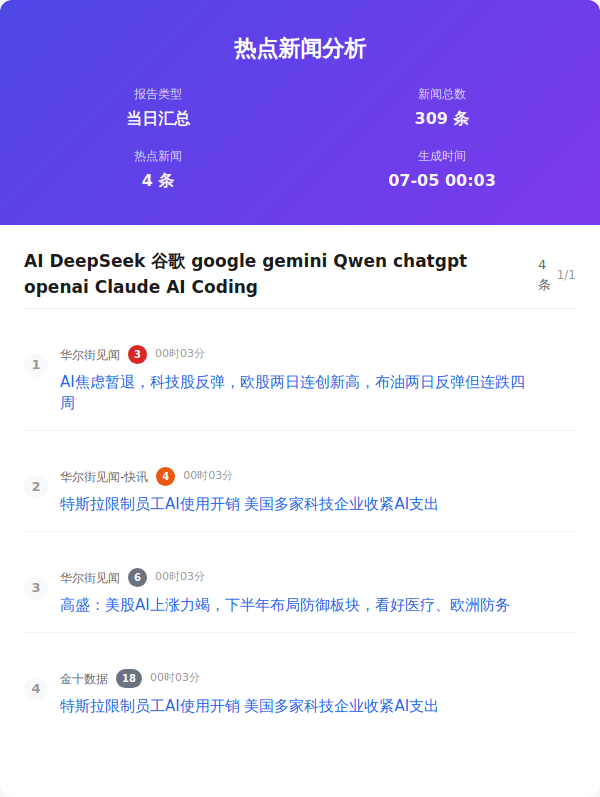
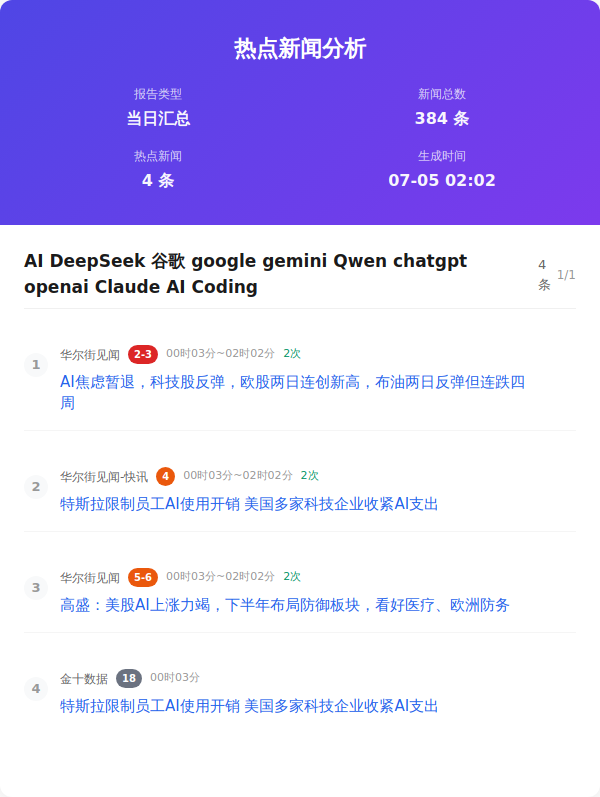
Auto update by GitHub Actions at Sun Jul  5 02:02:43 CST 2026

diff --git a/index.html b/index.html
@@ -357,7 +357,7 @@
                     </div>
                     <div class="info-item">
                         <span class="info-label">新闻总数</span>
-                        <span class="info-value">309 条</span>
+                        <span class="info-value">384 条</span>
                     </div>
                     <div class="info-item">
                         <span class="info-label">热点新闻</span>
@@ -365,7 +365,7 @@
                     </div>
                     <div class="info-item">
                         <span class="info-label">生成时间</span>
-                        <span class="info-value">07-05 00:03</span>
+                        <span class="info-value">07-05 02:02</span>
                     </div>
                 </div>
             </div>
@@ -383,7 +383,7 @@
                         <div class="news-number">1</div>
                         <div class="news-content">
                             <div class="news-header">
-                                <span class="source-name">华尔街见闻</span><span class="rank-num top">3</span><span class="time-info">00时03分</span>
+                                <span class="source-name">华尔街见闻</span><span class="rank-num top">2-3</span><span class="time-info">00时03分~02时02分</span><span class="count-info">2次</span>
                             </div>
                             <div class="news-title"><a href="https://wallstreetcn.com/articles/3776124" target="_blank" class="news-link">AI焦虑暂退，科技股反弹，欧股两日连创新高，布油两日反弹但连跌四周</a>
                             </div>
@@ -393,7 +393,7 @@
                         <div class="news-number">2</div>
                         <div class="news-content">
                             <div class="news-header">
-                                <span class="source-name">华尔街见闻-快讯</span><span class="rank-num high">4</span><span class="time-info">00时03分</span>
+                                <span class="source-name">华尔街见闻-快讯</span><span class="rank-num high">4</span><span class="time-info">00时03分~02时02分</span><span class="count-info">2次</span>
                             </div>
                             <div class="news-title"><a href="https://wallstreetcn.com/livenews/3128944" target="_blank" class="news-link">特斯拉限制员工AI使用开销 美国多家科技企业收紧AI支出</a>
                             </div>
@@ -403,7 +403,7 @@
                         <div class="news-number">3</div>
                         <div class="news-content">
                             <div class="news-header">
-                                <span class="source-name">华尔街见闻</span><span class="rank-num ">6</span><span class="time-info">00时03分</span>
+                                <span class="source-name">华尔街见闻</span><span class="rank-num high">5-6</span><span class="time-info">00时03分~02时02分</span><span class="count-info">2次</span>
                             </div>
                             <div class="news-title"><a href="https://wallstreetcn.com/articles/3776200" target="_blank" class="news-link">高盛：美股AI上涨力竭，下半年布局防御板块，看好医疗、欧洲防务</a>
                             </div>

diff --git a/output/2026年07月05日/html/当日汇总.html b/output/2026年07月05日/html/当日汇总.html
@@ -357,7 +357,7 @@
                     </div>
                     <div class="info-item">
                         <span class="info-label">新闻总数</span>
-                        <span class="info-value">309 条</span>
+                        <span class="info-value">384 条</span>
                     </div>
                     <div class="info-item">
                         <span class="info-label">热点新闻</span>
@@ -365,7 +365,7 @@
                     </div>
                     <div class="info-item">
                         <span class="info-label">生成时间</span>
-                        <span class="info-value">07-05 00:03</span>
+                        <span class="info-value">07-05 02:02</span>
                     </div>
                 </div>
             </div>
@@ -383,7 +383,7 @@
                         <div class="news-number">1</div>
                         <div class="news-content">
                             <div class="news-header">
-                                <span class="source-name">华尔街见闻</span><span class="rank-num top">3</span><span class="time-info">00时03分</span>
+                                <span class="source-name">华尔街见闻</span><span class="rank-num top">2-3</span><span class="time-info">00时03分~02时02分</span><span class="count-info">2次</span>
                             </div>
                             <div class="news-title"><a href="https://wallstreetcn.com/articles/3776124" target="_blank" class="news-link">AI焦虑暂退，科技股反弹，欧股两日连创新高，布油两日反弹但连跌四周</a>
                             </div>
@@ -393,7 +393,7 @@
                         <div class="news-number">2</div>
                         <div class="news-content">
                             <div class="news-header">
-                                <span class="source-name">华尔街见闻-快讯</span><span class="rank-num high">4</span><span class="time-info">00时03分</span>
+                                <span class="source-name">华尔街见闻-快讯</span><span class="rank-num high">4</span><span class="time-info">00时03分~02时02分</span><span class="count-info">2次</span>
                             </div>
                             <div class="news-title"><a href="https://wallstreetcn.com/livenews/3128944" target="_blank" class="news-link">特斯拉限制员工AI使用开销 美国多家科技企业收紧AI支出</a>
                             </div>
@@ -403,7 +403,7 @@
                         <div class="news-number">3</div>
                         <div class="news-content">
                             <div class="news-header">
-                                <span class="source-name">华尔街见闻</span><span class="rank-num ">6</span><span class="time-info">00时03分</span>
+                                <span class="source-name">华尔街见闻</span><span class="rank-num high">5-6</span><span class="time-info">00时03分~02时02分</span><span class="count-info">2次</span>
                             </div>
                             <div class="news-title"><a href="https://wallstreetcn.com/articles/3776200" target="_blank" class="news-link">高盛：美股AI上涨力竭，下半年布局防御板块，看好医疗、欧洲防务</a>
                             </div>